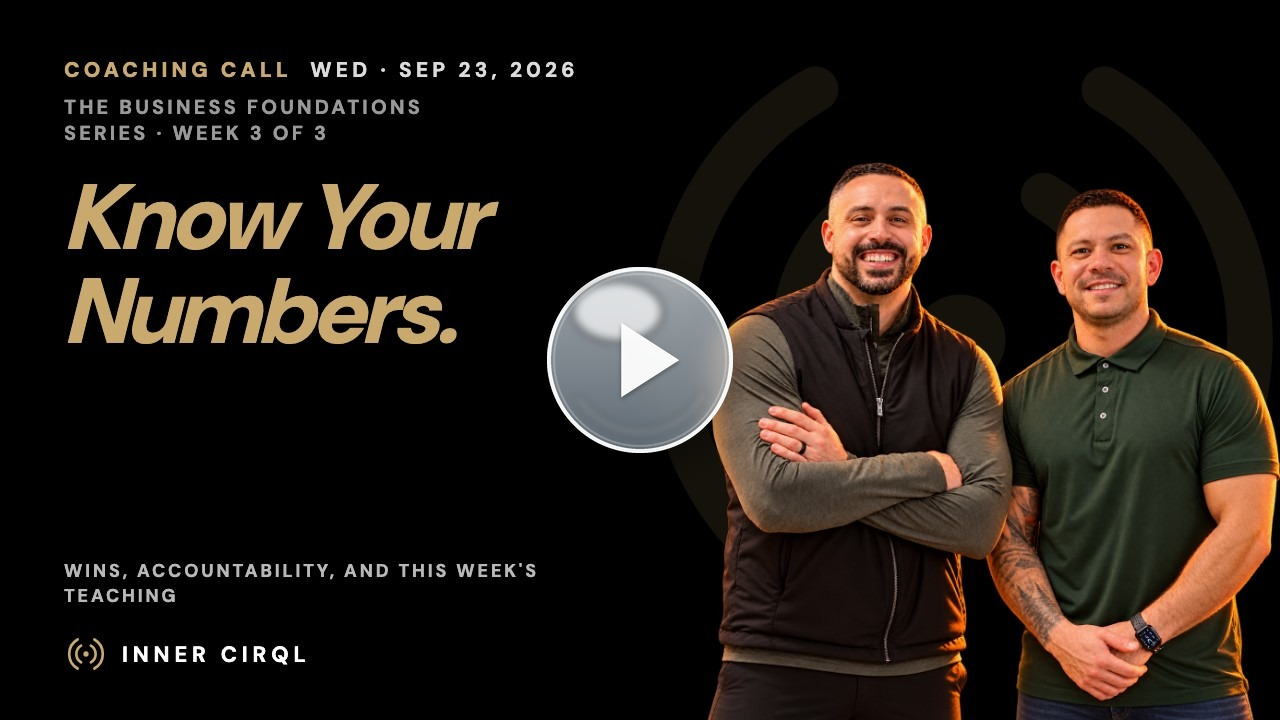
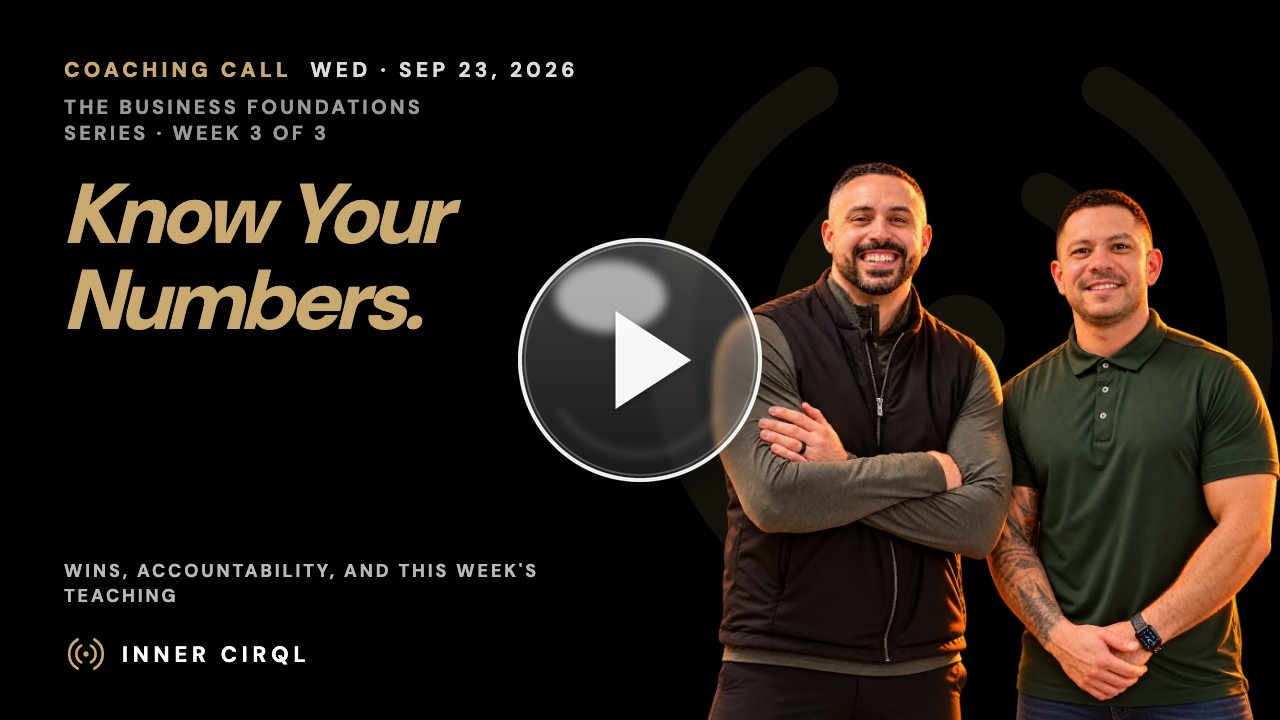
Training: retitle Sep 23 coaching call (The Business Foundations Series · Week 3 · Know Your Numbers.) + thumbnail

Changed region(s): [[0.0312, 0.2444, 0.4062, 0.4889], [0.4062, 0.3056, 0.5938, 0.6722]]

diff --git a/training/index.html b/training/index.html
@@ -94,6 +94,26 @@ window.LIBRARY = {
   ],
   "items": [
     {
+      "id": "v-2026-09-23",
+      "date": "2026-09-23",
+      "dateLabel": "September 23, 2026",
+      "series": "business-foundations",
+      "week": 3,
+      "name": "Know Your Numbers.",
+      "title": "The Business Foundations Series · Week 3 · Know Your Numbers.",
+      "headline": [
+        "Know Your",
+        "Numbers."
+      ],
+      "sub": "The Business Foundations Series · Week 3 of 3",
+      "desc": "Books that run themselves: the right tool with every account connected, an agent's chart of accounts, the three-line P&L, cost per closing, the 45-minute monthly close, and the Foundations Scorecard. Wins, accountability, and the teaching segment, edited replay.",
+      "href": "https://coach.theinnercirql.com/2026-09-23/",
+      "pdf": null,
+      "slides": null,
+      "embed": "https://www.youtube.com/embed/1pwJC3rJgkw?rel=0&modestbranding=1",
+      "thumb": "/assets/thumbs/sep-23-call.jpg?v=29920150"
+    },
+    {
       "id": "v-2026-09-09",
       "date": "2026-09-09",
       "dateLabel": "September 9, 2026",
@@ -532,26 +552,6 @@ window.LIBRARY = {
       "slides": null,
       "embed": "https://www.youtube.com/embed/qGBMIxAKihI?rel=0&modestbranding=1",
       "thumb": "/assets/thumbs/sep-30-call.jpg?v=29920129"
-    },
-    {
-      "id": "v-2026-09-23",
-      "date": "2026-09-23",
-      "dateLabel": "September 23, 2026",
-      "series": "business-foundations",
-      "week": 3,
-      "name": "Know Your Numbers.",
-      "title": "The Business Foundations Series · Week 3 · Know Your Numbers.",
-      "headline": [
-        "Know Your",
-        "Numbers."
-      ],
-      "sub": "The Business Foundations Series · Week 3 of 3",
-      "desc": "Books that run themselves: the right tool with every account connected, an agent's chart of accounts, the three-line P&L, cost per closing, the 45-minute monthly close, and the Foundations Scorecard. Wins, accountability, and the teaching segment, edited replay.",
-      "href": "https://coach.theinnercirql.com/2026-09-23/",
-      "pdf": null,
-      "slides": null,
-      "embed": "https://www.youtube.com/embed/1pwJC3rJgkw?rel=0&modestbranding=1",
-      "thumb": "/assets/thumbs/sep-23-call.jpg?v=29920128"
     },
     {
       "id": "t-become-a-listing-magnet",
